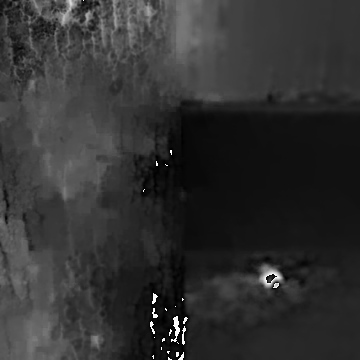
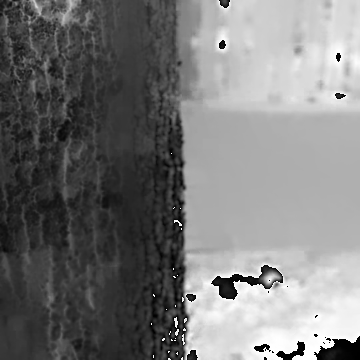
updating

diff --git a/defocus_estimate.py b/defocus_estimate.py
@@ -226,12 +226,14 @@ def estimate_bmap_laplacian(img, sigma_c, std1, std2):
     edge_map = feature.canny(gimg, sigma_c)
 
     sparse_bmap = estimate_sparse_blur(gimg, edge_map, std1, std2)
-    h, w = sparse_bmap.shape
+    # h, w = sparse_bmap.shape
 
-    L1 = get_laplacian(img / 255.0)
-    A, b = make_system(L1, sparse_bmap.T)
+    bmap = propagate_laplacian(img, sparse_bmap)
 
-    bmap = scipy.sparse.linalg.spsolve(A, b).reshape(w, h).T
+    # L1 = get_laplacian(img / 255.0)
+    # A, b = make_system(L1, sparse_bmap.T)
+    #
+    # bmap = scipy.sparse.linalg.spsolve(A, b).reshape(w, h).T
 
     return bmap
 

diff --git a/DE_PR2011.py b/DE_PR2011.py
@@ -21,7 +21,7 @@ if __name__ == '__main__':
     args = get_args()
 
     img = cv2.imread(args['image'])
-    fblurmap = estimate_bmap_laplacian(img, sigma_c = 3, std1 = 1, std2 = 1.5)
+    fblurmap = estimate_bmap_laplacian(img, sigma_c = 1, std1 = 1, std2 = 1.5)
 
     cv2.imwrite('image_bmap.png', np.uint8(fblurmap*255))
 
